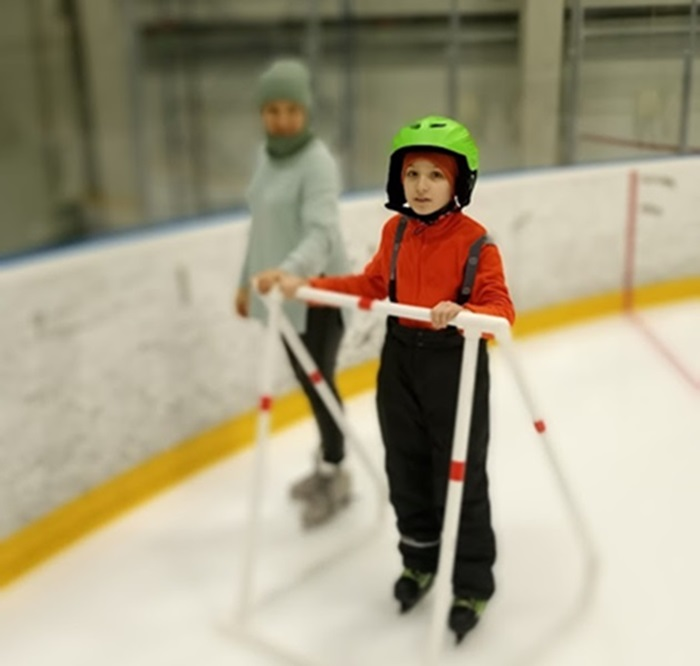
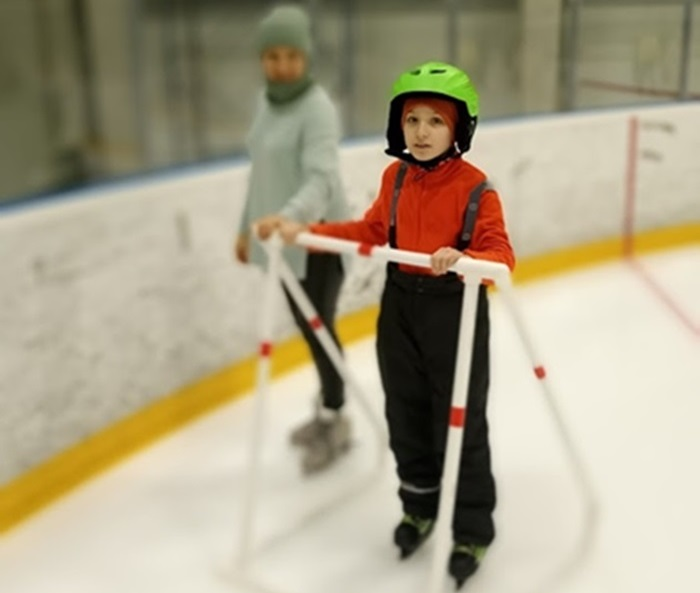
PR4 version 1.0

diff --git a/index.html b/index.html
@@ -86,7 +86,7 @@
           <p class="card-image__label">Предвкушение</p>
           <img
             class="card-image first-image"
-            src="./images/silent-hill.jpg"
+            src="./images/biserovo-night.jpg"
             alt="Темная улица за городом с тремя фонарями"
           />
         </div>
@@ -97,8 +97,8 @@
             знания могут повлиять на ваше будущее.
           </p>
           <p class="card-text card-text__bottom">
-            В начале путь выглядит примерно как этом фото, неизведанный,
-            сложный, но многообещающий и манящий огнями. Ждешь новых знаний,
+            В начале путь выглядит не много пугающим, неизведанным,
+            сложным, но многообещающим и манящим огнями. Ждешь новых знаний,
             новых знакомств, новой жизни, от этого даже мурашки по коже бегут.
           </p>
           <div class="buttons">
@@ -168,7 +168,7 @@
           <p class="card-image__label">Эмоции</p>
           <img
             class="card-image third-image"
-            src="./images/ratmiru1.jpg"
+            src="./images/ratmir&dog.jpg"
             alt="Темная улица за городом с тремя фонарями"
           />
         </div>
@@ -178,6 +178,187 @@
           </p>
           <p class="card-text card-text__bottom">
             Когда впервые находишь решение задачи в проекте, над которой ломал голову несколько часов или даже дней, получаешь такой невероятный прилив сил, энергии, адреналина. Это чувство еще будет часто возникать, но первое, оно как любовь. 
+          </p>
+          <div class="buttons">
+            <button class="card__icon-button button" type="button">
+              <svg viewBox="0 0 39 36" class="like-icon" width="39" height="36" fill="none" xmlns="http://www.w3.org/2000/svg">
+                <g class="heart">
+                  <path class="contour" d="M12 6H9v3h3V6Zm3 0h-3v3h3V6ZM9 9H6v3h3V9Zm0 3H6v3h3v-3Zm0 3H6v3h3v-3Zm9-9h-3v3h3V6Zm-6 12H9v3h3v-3Zm3 3h-3v3h3v-3Zm3 3h-3v3h3v-3Zm9-18h3v3h-3V6Zm-3 0h3v3h-3V6Zm6 3h3v3h-3V9Zm0 3h3v3h-3v-3Zm0 3h3v3h-3v-3Zm-9-9h3v3h-3V6Zm6 12h3v3h-3v-3Zm-3 3h3v3h-3v-3Zm-3 3h3v3h-3v-3Zm0 3h-3v3h3v-3Zm0-18h-3v3h3V9Z" fill="var(--contour-color)"/>
+                  <path class="main-body" d="M12 9H9v3h3V9Zm3 3h-3v3h3v-3Zm3-3h-3v3h3V9Zm-6 6H9v3h3v-3Zm3 0h-3v3h3v-3Zm0 3h-3v3h3v-3Zm3-6h-3v3h3v-3Zm0 9h-3v3h3v-3Zm0-3h-3v3h3v-3Zm9-9h3v3h-3V9Zm-3 0h3v3h-3V9Zm3 3h3v3h-3v-3Zm-3 0h3v3h-3v-3Zm-3-3h3v3h-3V9Zm6 6h3v3h-3v-3Zm-3 0h3v3h-3v-3Zm0 3h3v3h-3v-3Zm-3-6h3v3h-3v-3Zm0 9h3v3h-3v-3Zm0-3h3v3h-3v-3Zm0 3h-3v3h3v-3Zm0 3h-3v3h3v-3Z" fill="none"/>
+                  <path class="core" d="M18 15h-3v3h3v-3Zm3 0h3v3h-3v-3Zm0 0h-3v3h3v-3Zm0-3h-3v3h3v-3Zm0 6h-3v3h3v-3Z" fill="none"/>
+                </g>
+                  <path class="sparks" d="M36 13h3v3h-3v-3Zm-9 14h3v3h-3v-3Zm-9 6h3v3h-3v-3Zm-9-6h3v3H9v-3ZM24 0h3v3h-3V0Zm9 3h3v3h-3V3ZM3 3h3v3H3V3Zm9-3h3v3h-3V0ZM0 13h3v3H0v-3Z" fill="var(--filling-color)"/>
+              </svg>
+            </button>
+            <button type="button" class="card__like-button button">
+              <span class="button__text">Like</span>
+            </button>
+          </div>
+        </div>
+      </article>
+
+      <article class="card container">
+        <div class="card-tittle__block">
+          <h2 class="card-tittle">2 спринт: Погоня за идеалом</h2>
+        </div>
+        <div class="card-image__block">
+          <p class="card-image__label">Идеала нет</p>
+          <img
+            class="card-image fourth-image"
+            src="./images/ne-idealno.jpg"
+            alt="Темная улица за городом с тремя фонарями"
+          />
+        </div>
+        <div class="card-text__block">
+          <p class="card-text">
+            На этом этапе вы уже достаточно разбирались в основах вёрстки, чтобы понять, как много ещё впереди. Вы могли попытаться погнаться за идеалом и понять, что он недостижим. А, может, вы вовсе и не подвержены перфекционизму и вместо того, чтобы сделать идеально, старались просто сделать.          </p>
+          <p class="card-text card-text__bottom">
+            Всегда старался сделать идеально, но когда раз за разом понимал, что это невозможно, понял, что принцип: "нормально делай, нормально будет" - самый лучший. 
+          </p>
+          <p class="card-text card-text__bottom">P.S. На фото я в исполнении сына &#128522;</p>
+          <div class="buttons">
+            <button class="card__icon-button button" type="button">
+              <svg viewBox="0 0 39 36" class="like-icon" width="39" height="36" fill="none" xmlns="http://www.w3.org/2000/svg">
+                <g class="heart">
+                  <path class="contour" d="M12 6H9v3h3V6Zm3 0h-3v3h3V6ZM9 9H6v3h3V9Zm0 3H6v3h3v-3Zm0 3H6v3h3v-3Zm9-9h-3v3h3V6Zm-6 12H9v3h3v-3Zm3 3h-3v3h3v-3Zm3 3h-3v3h3v-3Zm9-18h3v3h-3V6Zm-3 0h3v3h-3V6Zm6 3h3v3h-3V9Zm0 3h3v3h-3v-3Zm0 3h3v3h-3v-3Zm-9-9h3v3h-3V6Zm6 12h3v3h-3v-3Zm-3 3h3v3h-3v-3Zm-3 3h3v3h-3v-3Zm0 3h-3v3h3v-3Zm0-18h-3v3h3V9Z" fill="var(--contour-color)"/>
+                  <path class="main-body" d="M12 9H9v3h3V9Zm3 3h-3v3h3v-3Zm3-3h-3v3h3V9Zm-6 6H9v3h3v-3Zm3 0h-3v3h3v-3Zm0 3h-3v3h3v-3Zm3-6h-3v3h3v-3Zm0 9h-3v3h3v-3Zm0-3h-3v3h3v-3Zm9-9h3v3h-3V9Zm-3 0h3v3h-3V9Zm3 3h3v3h-3v-3Zm-3 0h3v3h-3v-3Zm-3-3h3v3h-3V9Zm6 6h3v3h-3v-3Zm-3 0h3v3h-3v-3Zm0 3h3v3h-3v-3Zm-3-6h3v3h-3v-3Zm0 9h3v3h-3v-3Zm0-3h3v3h-3v-3Zm0 3h-3v3h3v-3Zm0 3h-3v3h3v-3Z" fill="none"/>
+                  <path class="core" d="M18 15h-3v3h3v-3Zm3 0h3v3h-3v-3Zm0 0h-3v3h3v-3Zm0-3h-3v3h3v-3Zm0 6h-3v3h3v-3Z" fill="none"/>
+                </g>
+                  <path class="sparks" d="M36 13h3v3h-3v-3Zm-9 14h3v3h-3v-3Zm-9 6h3v3h-3v-3Zm-9-6h3v3H9v-3ZM24 0h3v3h-3V0Zm9 3h3v3h-3V3ZM3 3h3v3H3V3Zm9-3h3v3h-3V0ZM0 13h3v3H0v-3Z" fill="var(--filling-color)"/>
+              </svg>
+            </button>
+            <button type="button" class="card__like-button button">
+              <span class="button__text">Like</span>
+            </button>
+          </div>
+        </div>
+      </article>
+
+      <article class="card container">
+        <div class="card-tittle__block">
+          <h2 class="card-tittle">2 спринт: О тех, кто рядом</h2>
+        </div>
+        <div class="card-image__block">
+          <p class="card-image__label">Человечество</p>
+          <img
+            class="card-image fifth-image"
+            src="./images/rocket.jpg"
+            alt="Темная улица за городом с тремя фонарями"
+          />
+        </div>
+        <div class="card-text__block">
+          <p class="card-text">
+            Всё это время вы были не одиноки (хотя, возможно, иногда и чувствовали, что одни против целого мира). Вас окружали одногруппники, команда сопровождения и просто близкие люди, которым можно пожаловаться, если очередной макет просто так не поддавался. Осваивать что-то новое легче, когда рядом есть единомышленники, не правда ли?          </p>
+          <p class="card-text card-text__bottom">
+            Невозможно переоценить важность единения людей во имя какой либо цели, только так можно добиться чего то выдающегося, освоить космос например.  
+          </p>
+          <div class="buttons">
+            <button class="card__icon-button button" type="button">
+              <svg viewBox="0 0 39 36" class="like-icon" width="39" height="36" fill="none" xmlns="http://www.w3.org/2000/svg">
+                <g class="heart">
+                  <path class="contour" d="M12 6H9v3h3V6Zm3 0h-3v3h3V6ZM9 9H6v3h3V9Zm0 3H6v3h3v-3Zm0 3H6v3h3v-3Zm9-9h-3v3h3V6Zm-6 12H9v3h3v-3Zm3 3h-3v3h3v-3Zm3 3h-3v3h3v-3Zm9-18h3v3h-3V6Zm-3 0h3v3h-3V6Zm6 3h3v3h-3V9Zm0 3h3v3h-3v-3Zm0 3h3v3h-3v-3Zm-9-9h3v3h-3V6Zm6 12h3v3h-3v-3Zm-3 3h3v3h-3v-3Zm-3 3h3v3h-3v-3Zm0 3h-3v3h3v-3Zm0-18h-3v3h3V9Z" fill="var(--contour-color)"/>
+                  <path class="main-body" d="M12 9H9v3h3V9Zm3 3h-3v3h3v-3Zm3-3h-3v3h3V9Zm-6 6H9v3h3v-3Zm3 0h-3v3h3v-3Zm0 3h-3v3h3v-3Zm3-6h-3v3h3v-3Zm0 9h-3v3h3v-3Zm0-3h-3v3h3v-3Zm9-9h3v3h-3V9Zm-3 0h3v3h-3V9Zm3 3h3v3h-3v-3Zm-3 0h3v3h-3v-3Zm-3-3h3v3h-3V9Zm6 6h3v3h-3v-3Zm-3 0h3v3h-3v-3Zm0 3h3v3h-3v-3Zm-3-6h3v3h-3v-3Zm0 9h3v3h-3v-3Zm0-3h3v3h-3v-3Zm0 3h-3v3h3v-3Zm0 3h-3v3h3v-3Z" fill="none"/>
+                  <path class="core" d="M18 15h-3v3h3v-3Zm3 0h3v3h-3v-3Zm0 0h-3v3h3v-3Zm0-3h-3v3h3v-3Zm0 6h-3v3h3v-3Z" fill="none"/>
+                </g>
+                  <path class="sparks" d="M36 13h3v3h-3v-3Zm-9 14h3v3h-3v-3Zm-9 6h3v3h-3v-3Zm-9-6h3v3H9v-3ZM24 0h3v3h-3V0Zm9 3h3v3h-3V3ZM3 3h3v3H3V3Zm9-3h3v3h-3V0ZM0 13h3v3H0v-3Z" fill="var(--filling-color)"/>
+              </svg>
+            </button>
+            <button type="button" class="card__like-button button">
+              <span class="button__text">Like</span>
+            </button>
+          </div>
+        </div>
+      </article>
+
+      <article class="card container">
+        <div class="card-tittle__block">
+          <h2 class="card-tittle">3 спринт: Обходные стратегии</h2>
+        </div>
+        <div class="card-image__block">
+          <p class="card-image__label">Верный подход</p>
+          <img
+            class="card-image sixth-image"
+            src="./images/ratmir3.jpg"
+            alt="Темная улица за городом с тремя фонарями"
+          />
+        </div>
+        <div class="card-text__block">
+          <p class="card-text">
+            На этом курсе вы постоянно решали разные задачи. В какой-то момент вам могло показаться, что решения просто иссякли. Значит, пришло время посмотреть на задачу под другим углом.          </p>
+          <p class="card-text card-text__bottom">
+            Иногда решение лежало прямо на поверхности, а найти его удавалось когда вспоминал мудрость о том, что лучше всего ключи будут спрятаны на самом видном месте. 
+          </p>
+          <div class="buttons">
+            <button class="card__icon-button button" type="button">
+              <svg viewBox="0 0 39 36" class="like-icon" width="39" height="36" fill="none" xmlns="http://www.w3.org/2000/svg">
+                <g class="heart">
+                  <path class="contour" d="M12 6H9v3h3V6Zm3 0h-3v3h3V6ZM9 9H6v3h3V9Zm0 3H6v3h3v-3Zm0 3H6v3h3v-3Zm9-9h-3v3h3V6Zm-6 12H9v3h3v-3Zm3 3h-3v3h3v-3Zm3 3h-3v3h3v-3Zm9-18h3v3h-3V6Zm-3 0h3v3h-3V6Zm6 3h3v3h-3V9Zm0 3h3v3h-3v-3Zm0 3h3v3h-3v-3Zm-9-9h3v3h-3V6Zm6 12h3v3h-3v-3Zm-3 3h3v3h-3v-3Zm-3 3h3v3h-3v-3Zm0 3h-3v3h3v-3Zm0-18h-3v3h3V9Z" fill="var(--contour-color)"/>
+                  <path class="main-body" d="M12 9H9v3h3V9Zm3 3h-3v3h3v-3Zm3-3h-3v3h3V9Zm-6 6H9v3h3v-3Zm3 0h-3v3h3v-3Zm0 3h-3v3h3v-3Zm3-6h-3v3h3v-3Zm0 9h-3v3h3v-3Zm0-3h-3v3h3v-3Zm9-9h3v3h-3V9Zm-3 0h3v3h-3V9Zm3 3h3v3h-3v-3Zm-3 0h3v3h-3v-3Zm-3-3h3v3h-3V9Zm6 6h3v3h-3v-3Zm-3 0h3v3h-3v-3Zm0 3h3v3h-3v-3Zm-3-6h3v3h-3v-3Zm0 9h3v3h-3v-3Zm0-3h3v3h-3v-3Zm0 3h-3v3h3v-3Zm0 3h-3v3h3v-3Z" fill="none"/>
+                  <path class="core" d="M18 15h-3v3h3v-3Zm3 0h3v3h-3v-3Zm0 0h-3v3h3v-3Zm0-3h-3v3h3v-3Zm0 6h-3v3h3v-3Z" fill="none"/>
+                </g>
+                  <path class="sparks" d="M36 13h3v3h-3v-3Zm-9 14h3v3h-3v-3Zm-9 6h3v3h-3v-3Zm-9-6h3v3H9v-3ZM24 0h3v3h-3V0Zm9 3h3v3h-3V3ZM3 3h3v3H3V3Zm9-3h3v3h-3V0ZM0 13h3v3H0v-3Z" fill="var(--filling-color)"/>
+              </svg>
+            </button>
+            <button type="button" class="card__like-button button">
+              <span class="button__text">Like</span>
+            </button>
+          </div>
+        </div>
+      </article>
+
+      <article class="card container">
+        <div class="card-tittle__block">
+          <h2 class="card-tittle">3 спринт: Когда опускаются руки</h2>
+        </div>
+        <div class="card-image__block">
+          <p class="card-image__label">Оно тебе надо</p>
+          <img
+            class="card-image seventh-image"
+            src="./images/fire2.jpg"
+            alt="Темная улица за городом с тремя фонарями"
+          />
+        </div>
+        <div class="card-text__block">
+          <p class="card-text">
+            Во время учёбы часто возникает чувство, когда не знаешь, за что хвататься. Вроде и проектную пора сдавать, и задачи хочется порешать, и в теории получше разобраться, и жизнь не забыть пожить. В такие моменты очень нужна концентрация. Вспомните, откуда вы её черпали.</p>
+          <p class="card-text card-text__bottom">
+            Ко мне концентрация приходила через уверенность в правильности моего выбора, я просто не давал даже малейшего ходу мыслям вроде: "а тем ли я занимаюсь", "а вот если бы я попробовал другое или это, но раньше/позже". На это просто не хочется тратить время. Прямо здесь и сейчас я делаю все правильно! 
+          </p>
+          <div class="buttons">
+            <button class="card__icon-button button" type="button">
+              <svg viewBox="0 0 39 36" class="like-icon" width="39" height="36" fill="none" xmlns="http://www.w3.org/2000/svg">
+                <g class="heart">
+                  <path class="contour" d="M12 6H9v3h3V6Zm3 0h-3v3h3V6ZM9 9H6v3h3V9Zm0 3H6v3h3v-3Zm0 3H6v3h3v-3Zm9-9h-3v3h3V6Zm-6 12H9v3h3v-3Zm3 3h-3v3h3v-3Zm3 3h-3v3h3v-3Zm9-18h3v3h-3V6Zm-3 0h3v3h-3V6Zm6 3h3v3h-3V9Zm0 3h3v3h-3v-3Zm0 3h3v3h-3v-3Zm-9-9h3v3h-3V6Zm6 12h3v3h-3v-3Zm-3 3h3v3h-3v-3Zm-3 3h3v3h-3v-3Zm0 3h-3v3h3v-3Zm0-18h-3v3h3V9Z" fill="var(--contour-color)"/>
+                  <path class="main-body" d="M12 9H9v3h3V9Zm3 3h-3v3h3v-3Zm3-3h-3v3h3V9Zm-6 6H9v3h3v-3Zm3 0h-3v3h3v-3Zm0 3h-3v3h3v-3Zm3-6h-3v3h3v-3Zm0 9h-3v3h3v-3Zm0-3h-3v3h3v-3Zm9-9h3v3h-3V9Zm-3 0h3v3h-3V9Zm3 3h3v3h-3v-3Zm-3 0h3v3h-3v-3Zm-3-3h3v3h-3V9Zm6 6h3v3h-3v-3Zm-3 0h3v3h-3v-3Zm0 3h3v3h-3v-3Zm-3-6h3v3h-3v-3Zm0 9h3v3h-3v-3Zm0-3h3v3h-3v-3Zm0 3h-3v3h3v-3Zm0 3h-3v3h3v-3Z" fill="none"/>
+                  <path class="core" d="M18 15h-3v3h3v-3Zm3 0h3v3h-3v-3Zm0 0h-3v3h3v-3Zm0-3h-3v3h3v-3Zm0 6h-3v3h3v-3Z" fill="none"/>
+                </g>
+                  <path class="sparks" d="M36 13h3v3h-3v-3Zm-9 14h3v3h-3v-3Zm-9 6h3v3h-3v-3Zm-9-6h3v3H9v-3ZM24 0h3v3h-3V0Zm9 3h3v3h-3V3ZM3 3h3v3H3V3Zm9-3h3v3h-3V0ZM0 13h3v3H0v-3Z" fill="var(--filling-color)"/>
+              </svg>
+            </button>
+            <button type="button" class="card__like-button button">
+              <span class="button__text">Like</span>
+            </button>
+          </div>
+        </div>
+      </article>
+
+      <article class="card container">
+        <div class="card-tittle__block">
+          <h2 class="card-tittle">«Сейчас я здесь»</h2>
+        </div>
+        <div class="card-image__block">
+          <p class="card-image__label">Всё впереди</p>
+          <img
+            class="card-image eighth-image"
+            src="./images/ratmir-moto.jpg"
+            alt="Темная улица за городом с тремя фонарями"
+          />
+        </div>
+        <div class="card-text__block">
+          <p class="card-text">
+            Сейчас вы уже очень много знаете о вёрстке. Но это только начало. Во-первых, впереди ещё много материала про «красотищу». Во-вторых, с окончанием курса учёба не заканчивается. Вёрстка — это целый мир. И этот мир постоянно меняется. Познать его полностью не получится, но это тот случай, когда важен сам процесс познания. Ведь часто путь — и есть результат.          </p>
+          <p class="card-text card-text__bottom">
+            И это очень хорошо, что освоить всего не выйдет никогда, это же такое счастье - иметь возможность постоянно(!) учится, совершенствоваться, познавать новое. Это доказанный и лучший способ сохранить мозг в "рабочем" состоянии до глубокой старости. 
           </p>
           <div class="buttons">
             <button class="card__icon-button button" type="button">

diff --git a/styles/style.css b/styles/style.css
@@ -385,30 +385,30 @@ dialog::backdrop {
 }
 
 .second-image {
-  filter: grayscale(50%);
+  filter: grayscale(20%);
 }
 
 .third-image {
-  
+  filter: drop-shadow(2px 2px coral) contrast(150%) drop-shadow(-2px -2px lime);
 }
 
 .fourth-image {
-
+  filter: opacity(70%);
 }
 
 .fifth-image {
-
+  filter: hue-rotate(175deg);
 }
 
 .sixth-image {
-
+  filter: invert(100%);
 }
 
 .seventh-image {
-
+  filter: drop-shadow(3px 3px 3px #ec6d04) blur(5px);
 }
 
 .eighth-image {
-
+  filter: saturate(150%);
 }
 
